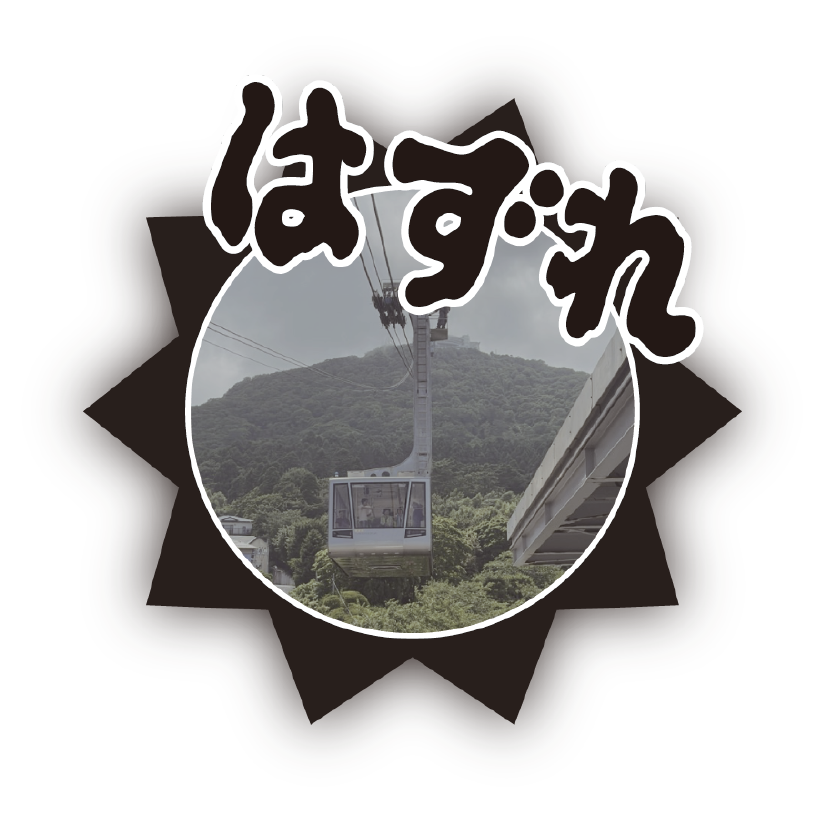
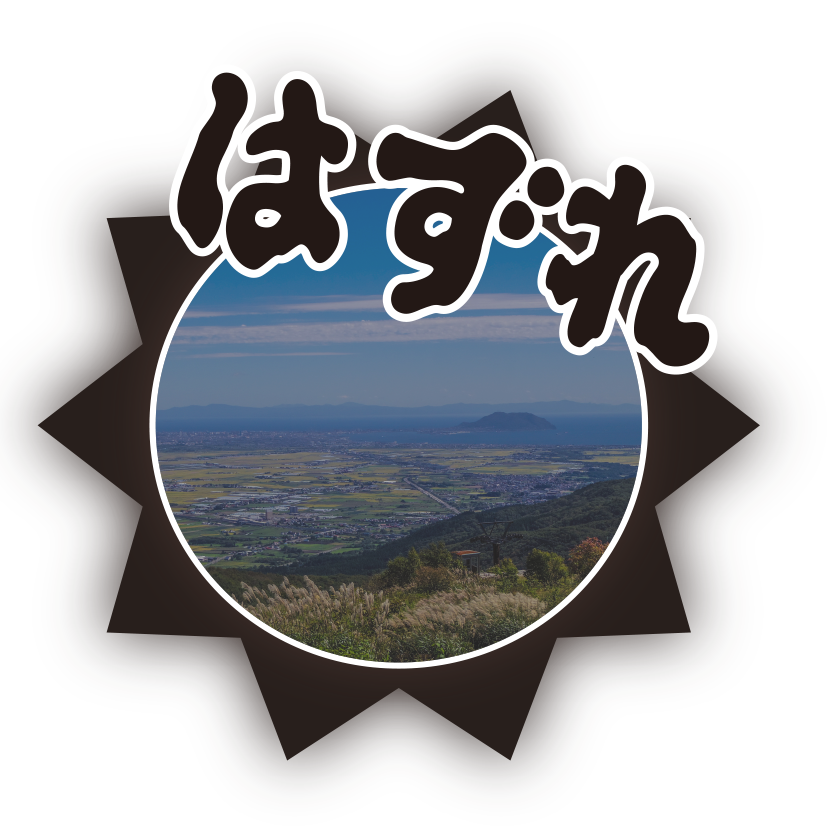
画像の差し替え、時間調整追加

diff --git a/assets/index-CVLr-uW_.js b/assets/index-CVLr-uW_.js
@@ -1,0 +1,10 @@
+(function(){const e=document.createElement("link").relList;if(e&&e.supports&&e.supports("modulepreload"))return;for(const t of document.querySelectorAll('link[rel="modulepreload"]'))c(t);new MutationObserver(t=>{for(const n of t)if(n.type==="childList")for(const g of n.addedNodes)g.tagName==="LINK"&&g.rel==="modulepreload"&&c(g)}).observe(document,{childList:!0,subtree:!0});function o(t){const n={};return t.integrity&&(n.integrity=t.integrity),t.referrerPolicy&&(n.referrerPolicy=t.referrerPolicy),t.crossOrigin==="use-credentials"?n.credentials="include":t.crossOrigin==="anonymous"?n.credentials="omit":n.credentials="same-origin",n}function c(t){if(t.ep)return;t.ep=!0;const n=o(t);fetch(t.href,n)}})();const b=document.body,i=document.querySelector("#bg-video"),f=document.querySelector("#startBtn"),r=document.querySelector("#quiz"),p=document.querySelector("#titleBack"),I=document.querySelector("#titleText");let m=0,d=!1;const h="./assets/sound/bgm.mp3",v="./assets/img/titleTop.png",q="./assets/img/titleEnd.png",w="./assets/img/titleBackWrong.png",B="./assets/img/titleBackEnd.png",T="./assets/img/rogo.png",E="./assets/img/endText.png",u=new Audio(h),l=[{questionTextImg:"./assets/img/q1text.png",titleBackImg:"./assets/img/q1titleBack.jpg",questionNoImg:"./assets/img/q1No.png",startTime:3,a:{beforeImg:"./assets/img/q1aBefore.png",afterImg:"./assets/img/q1aAfter.png",correct:!1},b:{beforeImg:"./assets/img/q1bBefore.png",afterImg:"./assets/img/q1bAfter.png",correct:!0}},{questionTextImg:"./assets/img/q2text.png",titleBackImg:"./assets/img/q2titleBack.png",questionNoImg:"./assets/img/q2No.png",startTime:6,a:{beforeImg:"./assets/img/q2aBefore.png",afterImg:"./assets/img/q2aAfter.png",correct:!0},b:{beforeImg:"./assets/img/q2bBefore.png",afterImg:"./assets/img/q2bAfter.png",correct:!1}},{questionTextImg:"./assets/img/q3text.png",titleBackImg:"./assets/img/q3titleBack.png",questionNoImg:"./assets/img/q3No.png",startTime:9,a:{beforeImg:"./assets/img/q3aBefore.png",afterImg:"./assets/img/q3aAfter.png",correct:!0},b:{beforeImg:"./assets/img/q3bBefore.png",afterImg:"./assets/img/q3bAfter.png",correct:!1}}];function x(){const s=[];l.forEach(e=>{s.push(e.a.beforeImg,e.b.beforeImg,e.a.afterImg,e.b.afterImg,e.questionTextImg,e.questionNoImg,e.titleBackImg)}),s.push("./assets/end.jpg"),s.forEach(e=>{const o=new Image;o.src=e})}x();f.addEventListener("click",async()=>{b.classList.remove("start-screen"),f.style.display="none";try{I.src=q,await i.play(),u.loop=!0,u.currentTime=1.5,u.play()}catch(s){console.warn("Video playback blocked:",s)}d=!1,m=0});i.addEventListener("timeupdate",()=>{if(d)return;const s=l[m];s&&i.currentTime>=s.startTime&&(k(m),d=!0),!s&&i.currentTime>=i.duration-.5&&L()});function k(s){const e=l[s];i.pause(),p.src=e.titleBackImg,r.innerHTML=`
+    <div class="quiz">
+      <img id="questionNo" src="${e.questionNoImg}">
+      <img id="questionText" src="${e.questionTextImg}">
+      <div class="answers">
+        <img class="ansA" src="${e.a.beforeImg}" onclick="selectAnswer('a')">
+        <img class="ansB" src="${e.b.beforeImg}" onclick="selectAnswer('b')">
+      </div>
+    </div>
+  `}window.selectAnswer=function(s){const e=l[m][s],o=e.correct;document.querySelectorAll(".answers img").forEach(y=>{y.style.pointerEvents="none",y.style.opacity="0.6"}),z(o?"correct.mp3":"wrong.mp3"),o||(p.src=w);const t=document.querySelector(`.ans${s.toUpperCase()}`),n=t.getBoundingClientRect(),g=t.parentElement.getBoundingClientRect(),a=document.createElement("img");a.src=e.afterImg,Object.assign(a.style,{position:"absolute",width:"35%",opacity:"1",transition:"opacity 0.3s ease-in-out",zIndex:5,pointerEvents:"none"}),a.style.left=`${n.left-g.left+n.width/2}px`,a.style.top=`${n.top-g.top+n.height/2}px`,a.style.transform="translate(-50%, -50%)",t.parentElement.appendChild(a),setTimeout(()=>{a.remove(),r.innerHTML="",m++,d=!1,i.play()},2e3)};function L(){const s=document.getElementById("bg-video");r.innerHTML="",s.pause(),u.pause(),p.src=B,I.src=q;const e=document.createElement("img");e.src="",Object.assign(e.style,{position:"absolute",top:0,left:0,width:"100%",height:"100%",objectFit:"cover",zIndex:"0"});const o=document.createElement("img");o.src=E,Object.assign(o.style,{position:"absolute",top:"45%",left:"50%",transform:"translate(-50%, -50%)",width:"40vw",zIndex:"2",pointerEvents:"none"});const c=document.createElement("img");c.src=T,Object.assign(c.style,{position:"absolute",top:"65%",left:"50%",transform:"translate(-50%, -50%)",width:"25vw",zIndex:"2",pointerEvents:"none"}),r.appendChild(e),r.appendChild(o),r.appendChild(c);const t=()=>{A(),r.removeEventListener("click",t),o.remove(),c.remove(),e.remove()};r.addEventListener("click",t)}function A(){i.currentTime=0,i.pause(),r.innerHTML="",f.style.display="block",b.classList.add("start-screen"),m=0,p.src=l[0].titleBackImg,I.src=v}function z(s){new Audio(`./assets/sound/${s}`).play()}

diff --git a/assets/index-D8DCF2YP.css b/assets/index-D8DCF2YP.css
@@ -1,0 +1,1 @@
+body{margin:0;overflow:hidden;height:100vh;background-color:#000}video{position:fixed;top:0;left:0;width:100vw;height:100vh;object-fit:cover;z-index:-1}#titleBack{position:absolute;top:0;left:-1vw;width:110vw;height:20vh;object-fit:cover;z-index:1}#titleText{position:absolute;top:10vh;left:50vw;width:60vw;transform:translate(-50%,-50%);z-index:5}#character{position:absolute;top:1vh;left:1vw;width:24vw;z-index:7}.start-screen #character{position:absolute;top:20vh;left:20vw;width:24vw;z-index:7}#startBtn{position:absolute;top:50%;left:50%;width:auto;height:40vh;transform:translate(-50%,-50%);color:#333;cursor:pointer;z-index:6;transition:all .3s}#startBtn:hover{transform:translate(-50%,-50%) scale(1.05)}#questionNo{position:fixed;top:.5vh;right:.5vw;width:20vw;z-index:5}#questionText{position:fixed;top:25vh;left:50%;width:70vw;transform:translate(-50%);z-index:5}.end-screen{position:fixed;top:0;left:0;width:100vw;height:100vh;background:#000000b3;display:flex;justify-content:center;align-items:center;color:#fff;text-align:center;font-size:4rem;z-index:20;cursor:pointer}.quiz{position:absolute;width:100vw;height:100vh;z-index:10}.answers .ansA{position:absolute;bottom:30%;left:20%;width:20%;cursor:pointer;transform:translate(-50%,50%)}.answers .ansB{position:absolute;bottom:30%;right:20%;width:20%;cursor:pointer;transform:translate(50%,50%)}@keyframes fadeIn{to{opacity:1}}

diff --git a/index.html b/index.html
@@ -9,10 +9,10 @@
     <meta name="apple-mobile-web-app-status-bar-style" content="black-translucent">
     <meta name="apple-mobile-web-app-title" content="Quiz App">
     <!-- <link rel="apple-touch-icon" href="./assets/icon.png"> 任意のアイコン -->
-    <script type="module" crossorigin src="./assets/index-4-IjNXvu.js"></script>
-    <link rel="stylesheet" crossorigin href="./assets/index-ifVdUOTA.css">
+    <script type="module" crossorigin src="./assets/index-CVLr-uW_.js"></script>
+    <link rel="stylesheet" crossorigin href="./assets/index-D8DCF2YP.css">
   </head>
-  <body>
+  <body class="start-screen">
     <!--  背景動画 -->
     <video id="bg-video" src="./assets/movie/bg.mp4" playsinline muted></video>
 
